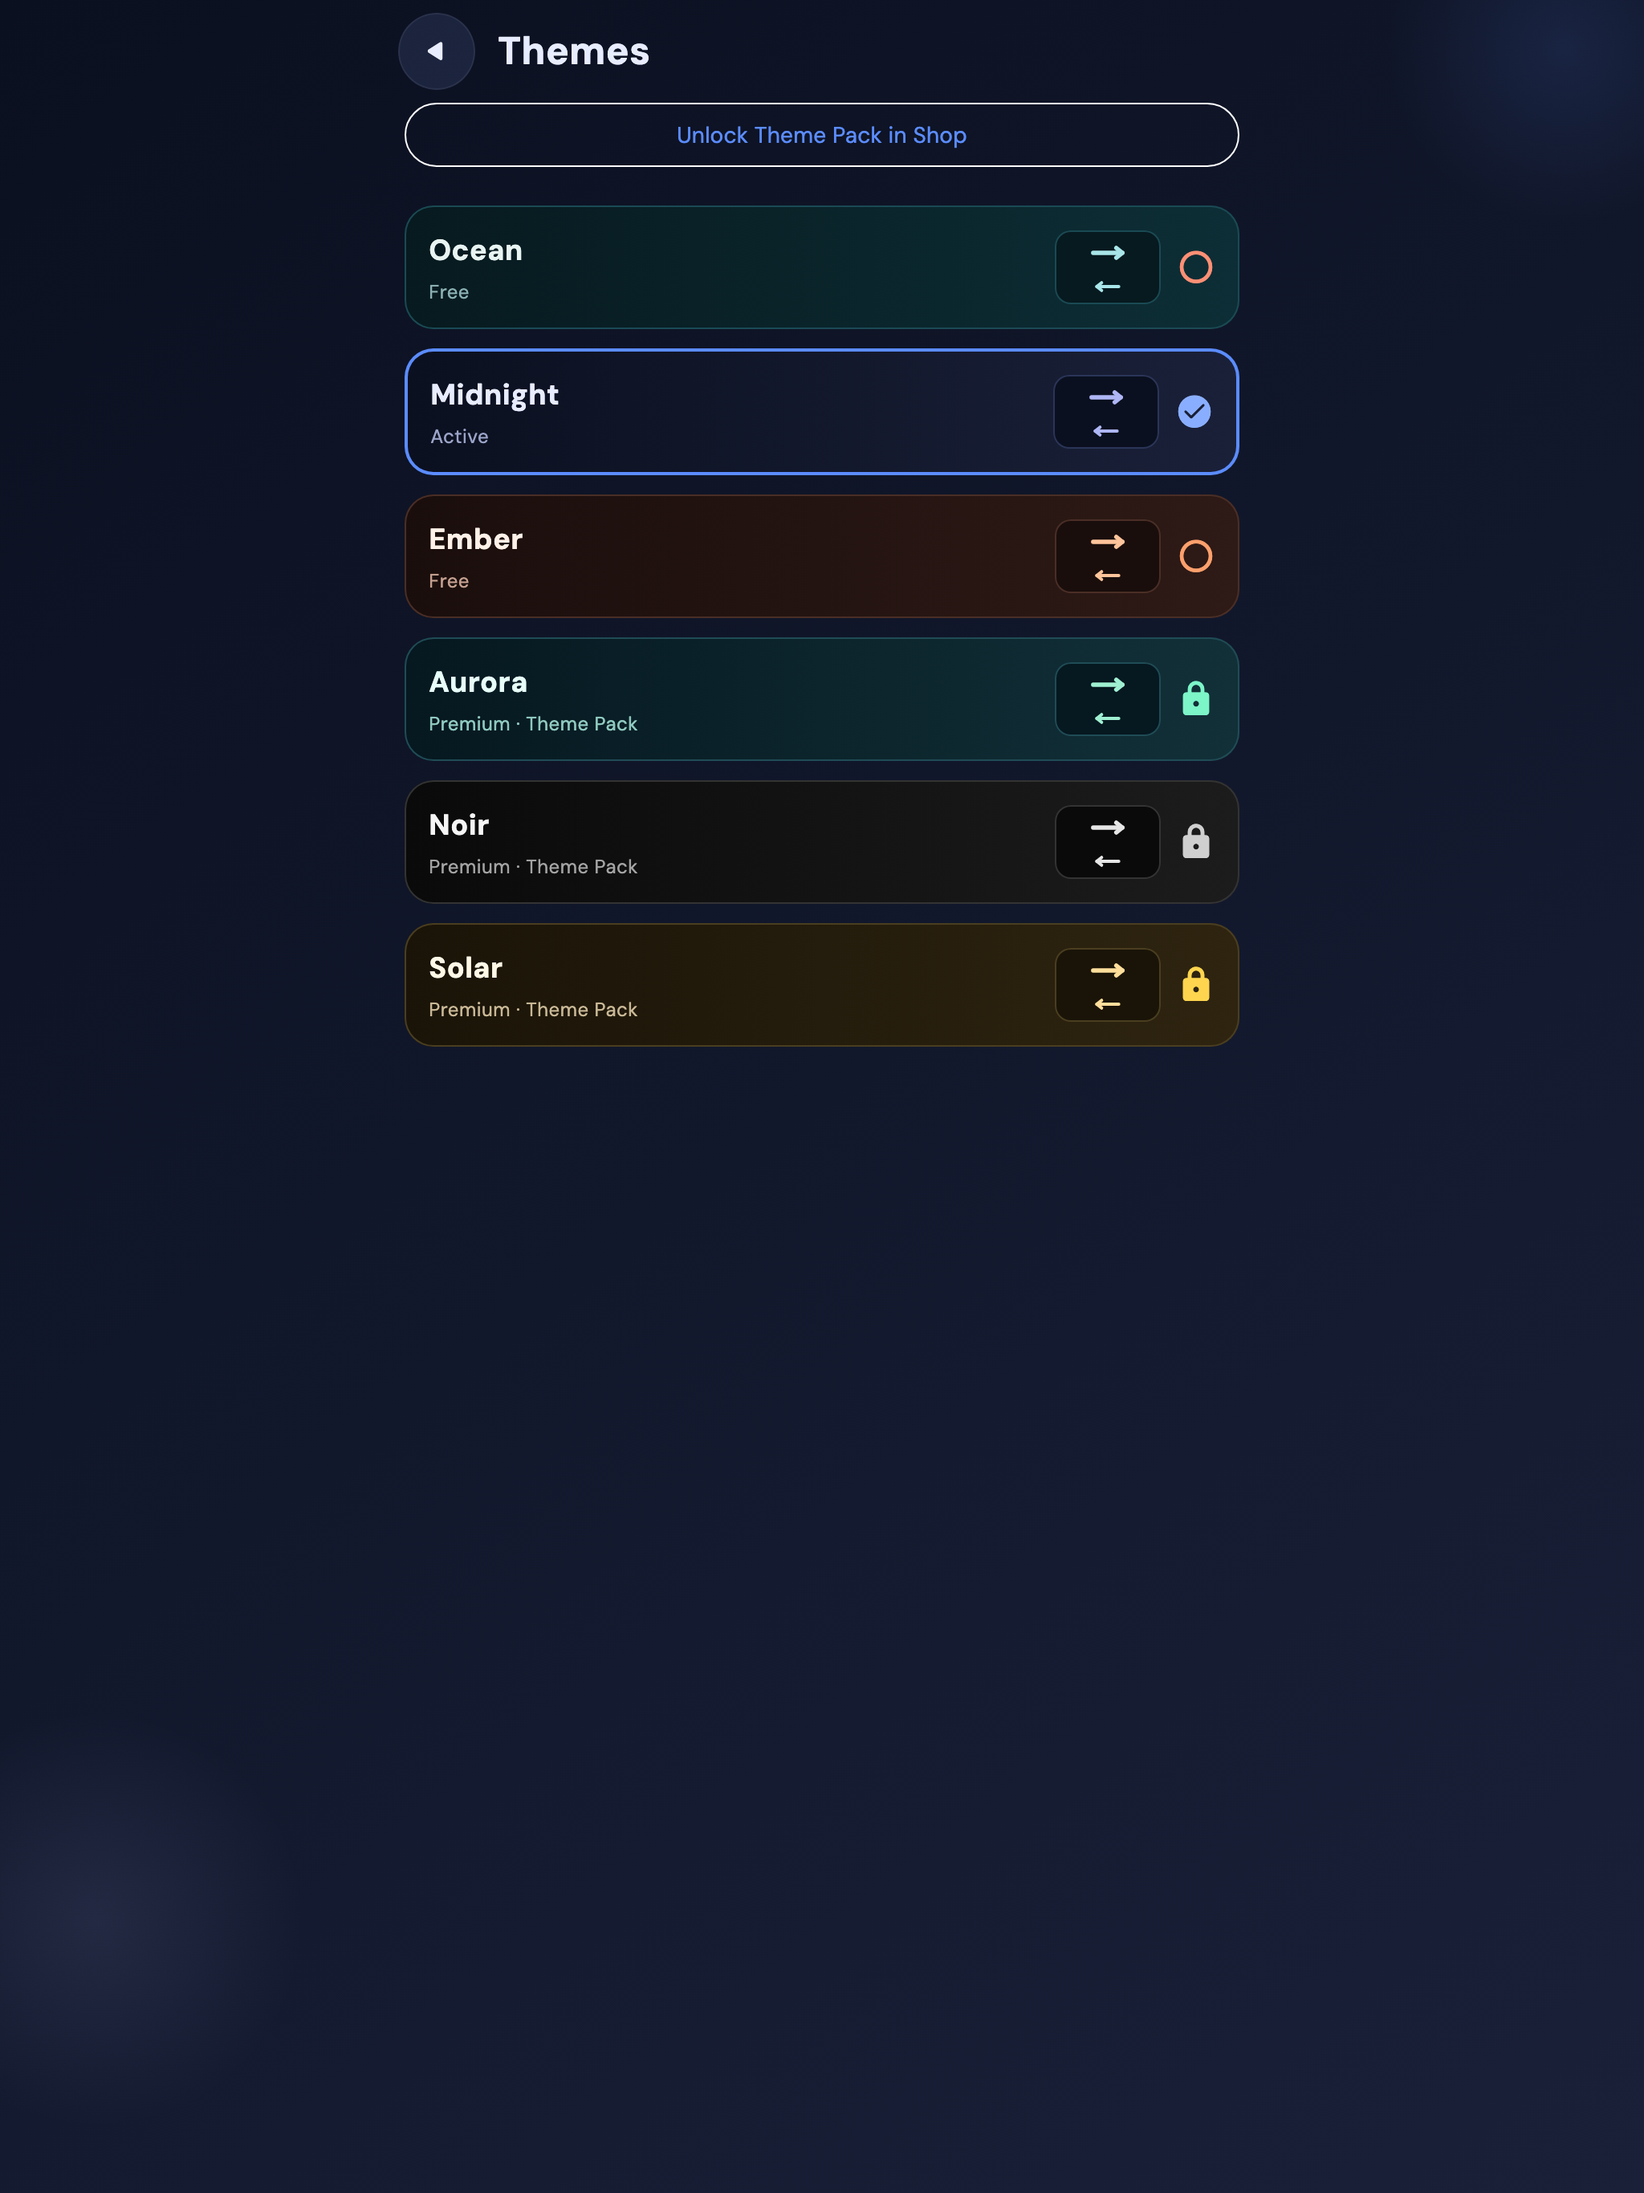
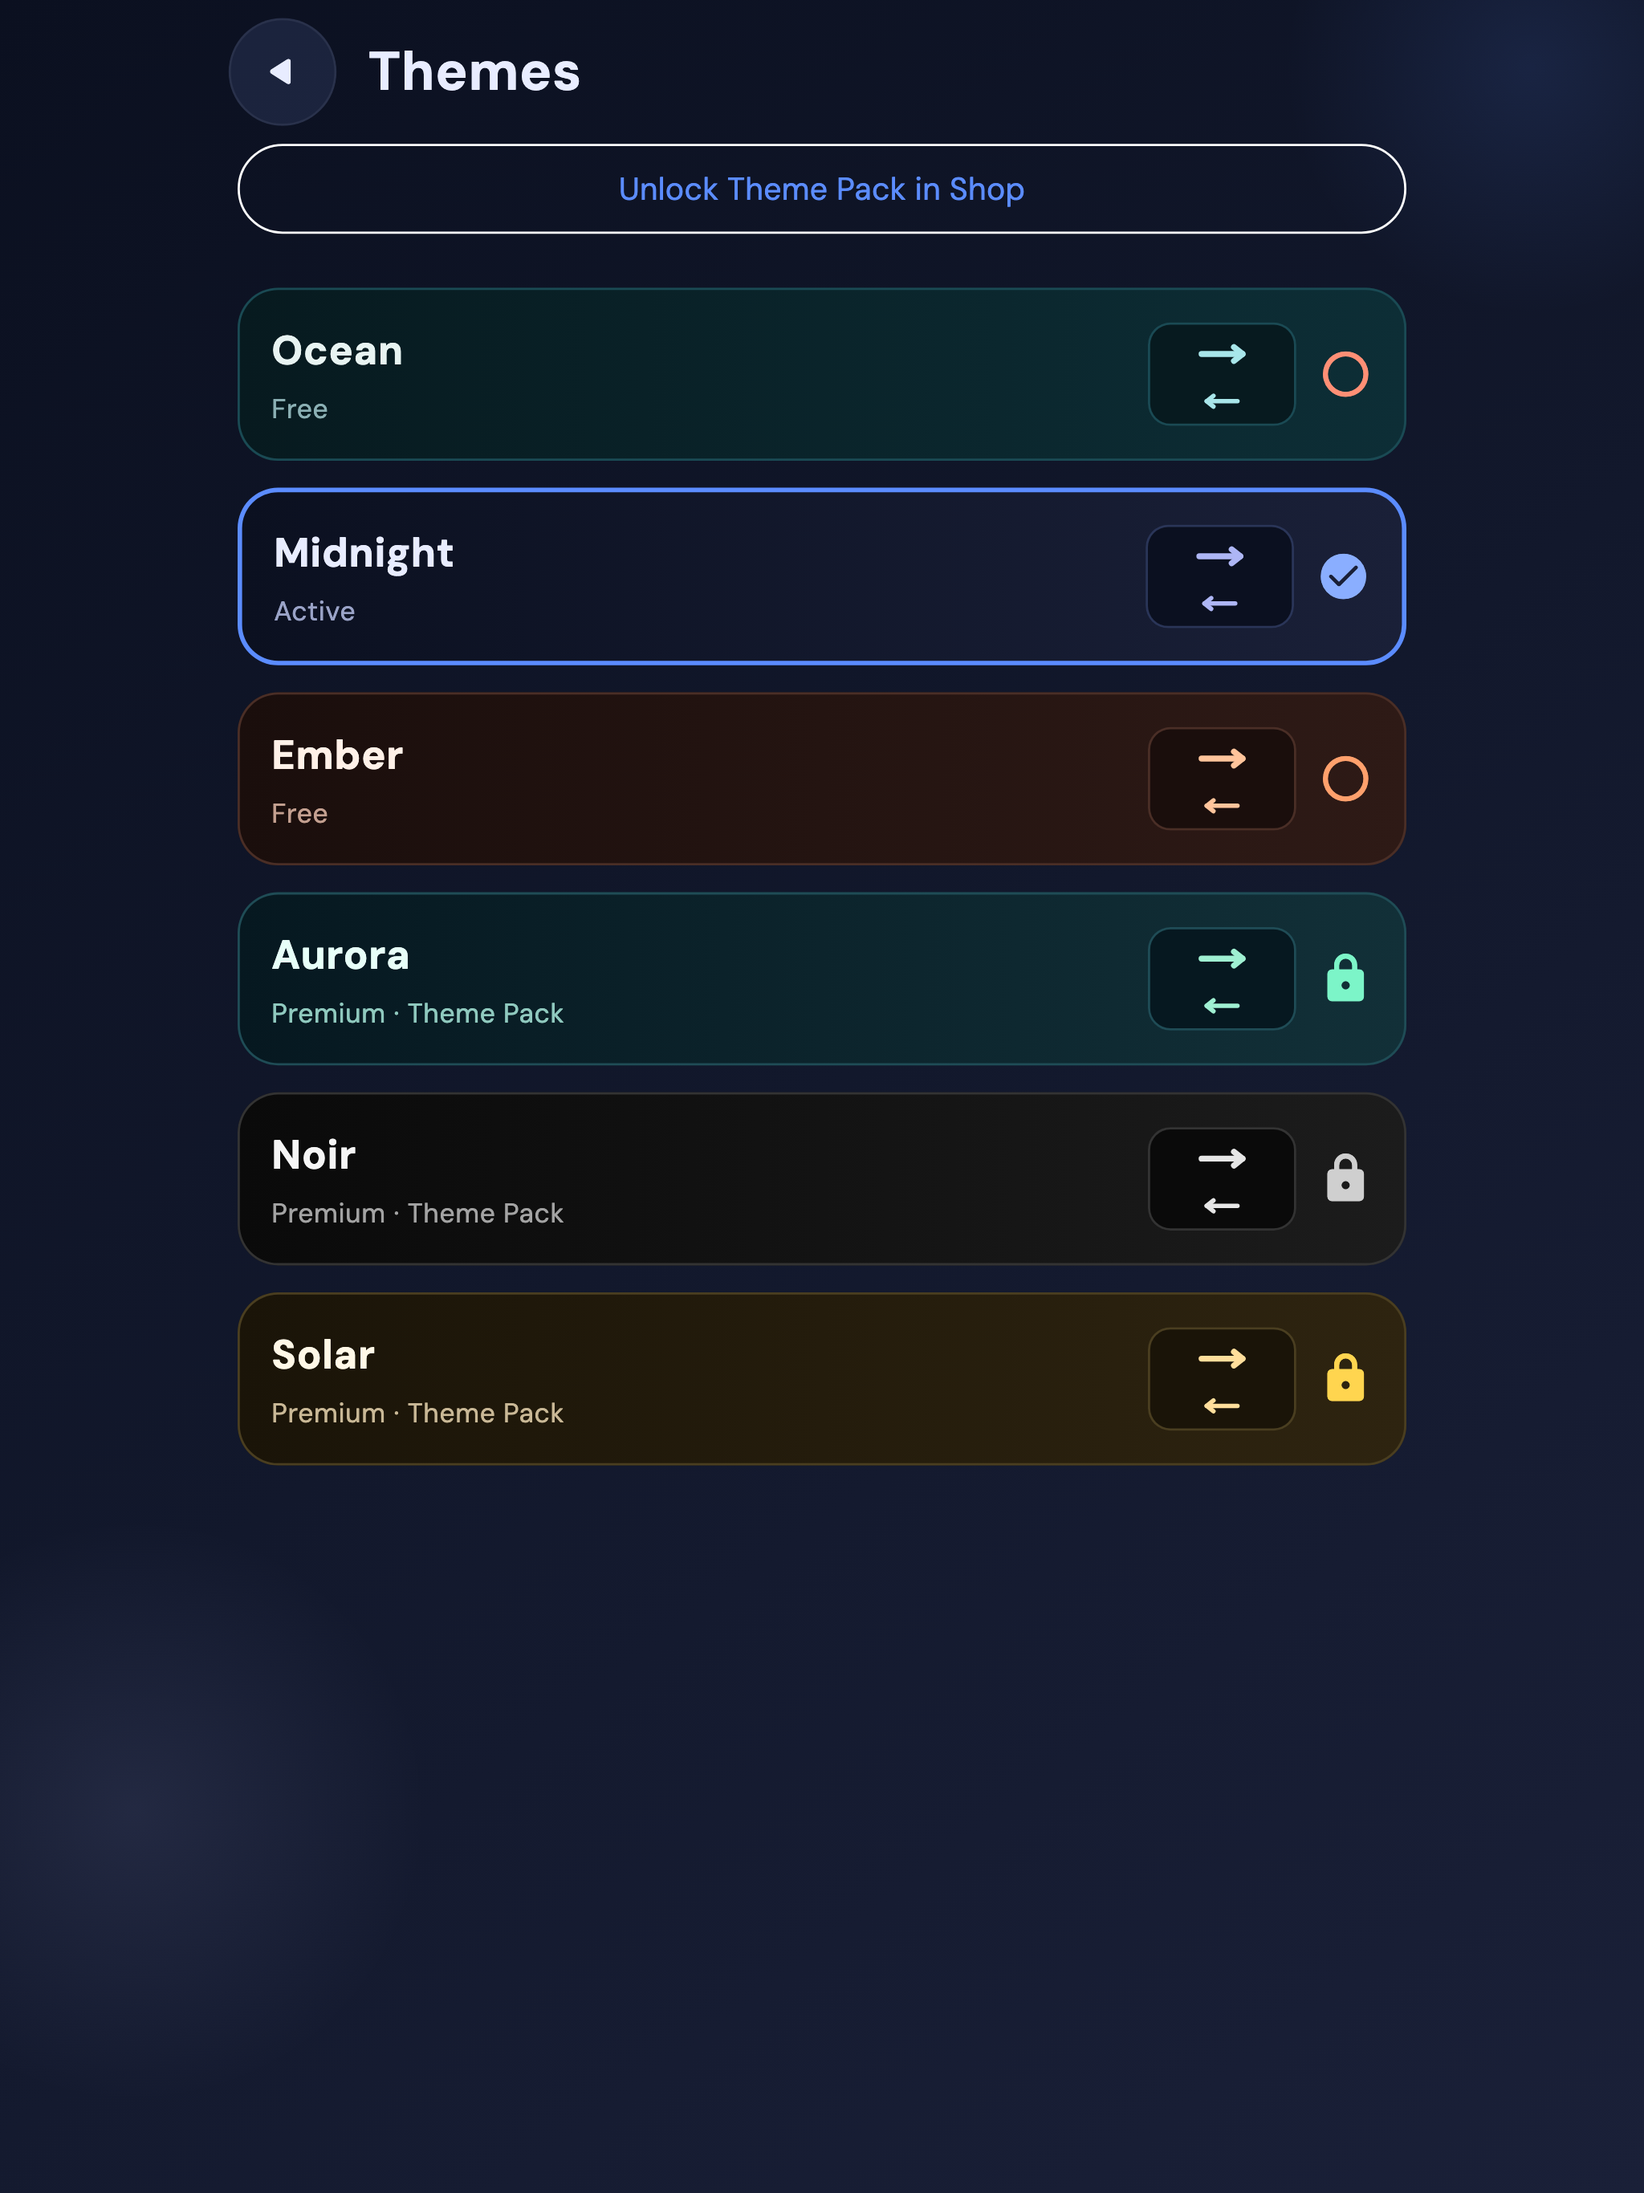
Scale the whole interface up on tablets, not just the width
Capping the content width stopped the layouts stretching, but left an iPad
showing phone-sized type in a narrow column with the rest of the screen empty.
Scaling the text alone would not have fixed it either: the padding, icons,
number badges and corner radii around it would still be phone-sized and the
cards would look starved.

Lay out against a smaller logical screen and scale the result. Type, spacing,
icons and radii all grow together, from one place, instead of every size
constant in thirty files needing a tablet variant. The insets are divided by
the same factor, since they are measured in real pixels and everything below
is about to be multiplied back up.

The Transform takes the size of its smaller child, so it needed pinning to the
top left — centred first and then scaled from the corner, the interface ran off
the right edge.

The screenshot and preview tools install the same wrapper, so what they render
is what an iPad gets. Phone shots are byte-for-byte unchanged: the scale is 1
below a 600pt shortest edge.

Changed region(s): [[0.125, 0.0933, 0.875, 0.6845], [0.125, 0.0, 0.4062, 0.0622], [0.375, 0.0622, 0.625, 0.0933]]

diff --git a/lib/main.dart b/lib/main.dart
@@ -48,6 +48,68 @@ Future<void> main() async {
   runApp(const ArrowsApp());
 }
 
+/// Lays the app out at phone proportions and then enlarges the whole thing on
+/// a tablet.
+///
+/// Capping the content width was only half the job: it stopped the layouts
+/// stretching, but left an iPad showing phone-sized type inside a narrow
+/// column. Scaling text alone would not have helped either — the padding,
+/// icons, badges and corner radii around it would still be phone-sized, and
+/// the cards would look starved.
+///
+/// Laying out against a smaller logical screen and scaling the result grows
+/// every one of those together, in one place, without a size constant in
+/// thirty files needing a tablet variant.
+class TabletScale extends StatelessWidget {
+  const TabletScale({super.key, required this.child});
+
+  final Widget child;
+
+  /// 1.0 on phones. On a tablet it grows with the shorter edge, capped so a
+  /// 12.9" iPad gets a comfortably larger interface rather than a magnified
+  /// one.
+  static double scaleFor(Size size) {
+    final shortest = size.shortestSide;
+    if (shortest < 600) return 1;
+    return (shortest / 620).clamp(1.0, 1.4);
+  }
+
+  @override
+  Widget build(BuildContext context) {
+    final media = MediaQuery.of(context);
+    final scale = scaleFor(media.size);
+    if (scale == 1) return child;
+
+    // The insets have to shrink with the screen: they are measured in real
+    // pixels, and everything below is about to be multiplied back up.
+    final size = media.size / scale;
+    return MediaQuery(
+      data: media.copyWith(
+        size: size,
+        padding: media.padding / scale,
+        viewPadding: media.viewPadding / scale,
+        viewInsets: media.viewInsets / scale,
+      ),
+      // The Transform takes the size of its (smaller) child, so without the
+      // Align it is centred in the screen first and then scaled out of it from
+      // the corner. Pin it to the top left and the scaled result lands exactly
+      // on the screen.
+      child: Align(
+        alignment: Alignment.topLeft,
+        child: Transform.scale(
+          scale: scale,
+          alignment: Alignment.topLeft,
+          child: SizedBox(
+            width: size.width,
+            height: size.height,
+            child: child,
+          ),
+        ),
+      ),
+    );
+  }
+}
+
 class ArrowsApp extends StatelessWidget {
   const ArrowsApp({super.key});
 
@@ -60,6 +122,7 @@ class ArrowsApp extends StatelessWidget {
           title: 'Arrows',
           debugShowCheckedModeBanner: false,
           theme: AppTheme.dark,
+          builder: (context, child) => TabletScale(child: child!),
           home: const SplashScreen(),
         );
       },

diff --git a/tool/app_preview.dart b/tool/app_preview.dart
@@ -15,6 +15,7 @@ import 'dart:ui' as ui;
 import 'package:arrows_game/data/progress_store.dart';
 import 'package:arrows_game/logic/game_controller.dart';
 import 'package:arrows_game/logic/level_generator.dart';
+import 'package:arrows_game/main.dart';
 import 'package:arrows_game/screens/game_screen.dart';
 import 'package:arrows_game/theme/app_theme.dart';
 import 'package:arrows_game/widgets/game_board.dart';
@@ -104,6 +105,9 @@ void main() {
         child: MaterialApp(
           theme: AppTheme.dark,
           debugShowCheckedModeBanner: false,
+          // The wrapper the real app installs — without it the iPad recording
+          // would show a phone-sized interface at iPad dimensions.
+          builder: (context, child) => TabletScale(child: child!),
           home: GameScreen(customLevel: LevelCatalog.byId(56)),
         ),
       ),

diff --git a/tool/store_screenshots.dart b/tool/store_screenshots.dart
@@ -14,6 +14,7 @@ import 'dart:io';
 
 import 'package:arrows_game/data/progress_store.dart';
 import 'package:arrows_game/logic/level_generator.dart';
+import 'package:arrows_game/main.dart';
 import 'package:arrows_game/screens/game_screen.dart';
 import 'package:arrows_game/screens/home_screen.dart';
 import 'package:arrows_game/screens/how_to_play_screen.dart';
@@ -79,6 +80,9 @@ void main() {
       await tester.pumpWidget(MaterialApp(
         theme: AppTheme.dark,
         debugShowCheckedModeBanner: false,
+        // The same wrapper the real app installs, so the tablet shots show the
+        // enlarged interface an iPad actually gets rather than a phone one.
+        builder: (context, child) => TabletScale(child: child!),
         home: page,
       ));
       // Let the entry animations settle.
